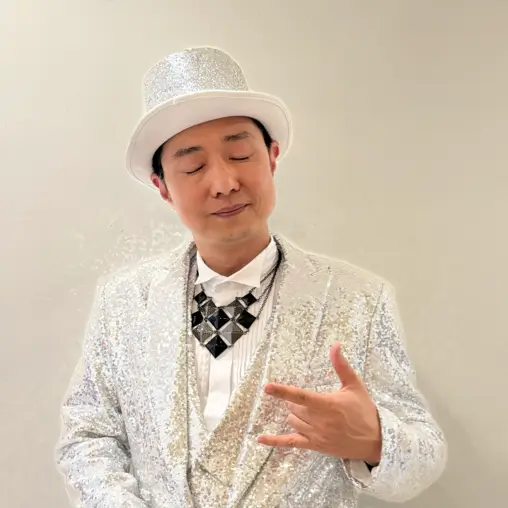
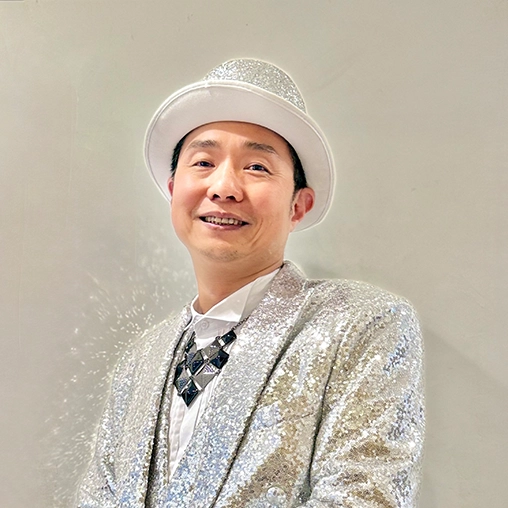
1008fix

diff --git a/src/html/news-detail1008.html b/src/html/news-detail1008.html
@@ -4,7 +4,7 @@
   <head>
     <meta charset="utf-8">
     <meta name="viewport" content="width=device-width, initial-scale=1">
-    <title>桃園萬聖城</title>
+    <title>桃園萬聖城 | 最新消息</title>
     <link rel="icon" href="images/favicon.webp" type="image/svg+xml">
     <link rel="stylesheet" href="css/index.css">
     
@@ -146,7 +146,7 @@
             </button>
           </div>
           <div class="col-6 mt-0">
-            <a class="btn-pill w-100" href="#">
+            <a class="btn-pill w-100" href="index-en.html">
               <img class="pumpkin" src="images/pumpkin.webp" alt="" aria-hidden="true">
               English
             </a>
@@ -154,7 +154,6 @@
         </div>
       </div>
     </div>
-
 
     <!-- 手機版光箱：Bootstrap Modal -->
     <div class="modal fade modal-menu" id="menuModal" tabindex="-1" aria-labelledby="menuModalLabel" aria-modal="true" role="dialog">
@@ -173,37 +172,37 @@
               </li>
 
               <li role="none">
-                <a role="menuitem" class="modal-link" href="#">
+                <a role="menuitem" class="modal-link" href="theme-activities.html">
                   <img class="pumpkin" src="images/pumpkin.webp" alt="主題活動" aria-hidden="true">主題活動
                 </a>
               </li>
 
               <li role="none">
-                <a role="menuitem" class="modal-link" href="#">
+                <a role="menuitem" class="modal-link" href="magic-stage.html">
                   <img class="pumpkin" src="images/pumpkin.webp" alt="魔幻舞台" aria-hidden="true">魔幻舞台
                 </a>
               </li>
 
               <li role="none">
-                <a role="menuitem" class="modal-link" href="#">
+                <a role="menuitem" class="modal-link" href="transport-info.html">
                   <img class="pumpkin" src="images/pumpkin.webp" alt="交通資訊" aria-hidden="true">交通資訊
                 </a>
               </li>
 
               <li role="none">
-                <a role="menuitem" class="modal-link" href="#">
+                <a role="menuitem" class="modal-link" href="partners.html">
                   <img class="pumpkin" src="images/pumpkin.webp" alt="萬聖城盟友" aria-hidden="true">萬聖城盟友
                 </a>
               </li>
 
               <li role="none">
-                <a role="menuitem" class="modal-link" href="#">
+                <a role="menuitem" class="modal-link" href="nearby-attractions.html">
                   <img class="pumpkin" src="images/pumpkin.webp" alt="順遊景點" aria-hidden="true">順遊景點
                 </a>
               </li>
 
               <li role="none">
-                <a role="menuitem" class="modal-link" href="#">
+                <a role="menuitem" class="modal-link" href="index-en.html">
                   <img class="pumpkin" src="images/pumpkin.webp" alt="English" aria-hidden="true">English
                 </a>
               </li>
@@ -215,142 +214,118 @@
 
     <!-- 主要內容 -->
     <main id="mainContent" class="wrap-1200 py-5">
-      <!-- 精彩預告 -->
-      <section class="video-area mb-4" aria-labelledby="videoTitle">
-        <div class="wrap-1200">
-          <!--<div class="video-box">-->
-            <!-- <h2 id="videoTitle" class="video-title">
-              <img src="images/icon01.webp" class="video-icon" alt="綠色火焰icon 黃色火焰icon" aria-hidden="true">
-              精彩預告
-            </h2> -->
-
-            <!-- <div class="text-white fs-1 text-center py-5">
-              2025桃園萬聖城・魔蛛古堡</br>
-              即將開城・敬請期待......
-            </div> -->
-
-            <!-- <div class="row g-4 video-list">
-              <div class="col-12 col-md-4">
-                <figure class="video-card m-0">
-                  <div class="ratio ratio-16x9">
-                    <iframe
-                      src="https://www.youtube.com/embed/k3Sjrq44bao?si=kxJZ0cavWau2a-AQ""
-                      title="精彩預告 1"
-                      loading="lazy"
-                      referrerpolicy="strict-origin-when-cross-origin"
-                      allow="accelerometer; autoplay; clipboard-write; encrypted-media; gyroscope; picture-in-picture; web-share"
-                      allowfullscreen></iframe>
-                  </div>
-                  <figcaption class="visually-hidden">精彩預告 1：活動花絮與重點介紹</figcaption>
-                </figure>
-              </div>
-
-              <div class="col-12 col-md-4">
-                <figure class="video-card m-0">
-                  <div class="ratio ratio-16x9">
-                    <iframe
-                      src="https://www.youtube.com/embed/k3Sjrq44bao?si=kxJZ0cavWau2a-AQ""
-                      title="精彩預告 2"
-                      loading="lazy"
-                      referrerpolicy="strict-origin-when-cross-origin"
-                      allow="accelerometer; autoplay; clipboard-write; encrypted-media; gyroscope; picture-in-picture; web-share"
-                      allowfullscreen></iframe>
-                  </div>
-                  <figcaption class="visually-hidden">精彩預告 2：主持人介紹與現場氛圍</figcaption>
-                </figure>
-              </div>
-
-              <div class="col-12 col-md-4">
-                <figure class="video-card m-0">
-                  <div class="ratio ratio-16x9">
-                    <iframe
-                      src="https://www.youtube.com/embed/k3Sjrq44bao?si=kxJZ0cavWau2a-AQ""
-                      title="精彩預告 3"
-                      loading="lazy"
-                      referrerpolicy="strict-origin-when-cross-origin"
-                      allow="accelerometer; autoplay; clipboard-write; encrypted-media; gyroscope; picture-in-picture; web-share"
-                      allowfullscreen></iframe>
-                  </div>
-                  <figcaption class="visually-hidden">精彩預告 3：活動亮點彙整</figcaption>
-                </figure>
-              </div>
-            </div> -->
-          <!--</div>-->
-
-          <!-- 最新消息 -->
-          <section class="news-area" aria-labelledby="newsTitle">
-            <div class="wrap-1200">
-              <div class="news-box">
-                <h2 id="newsTitle" class="news-head">
-                  <img src="images/icon01.webp" class="video-icon" alt="綠色火焰icon 黃色火焰icon" aria-hidden="true">
-                最新消息
-                </h2>
-
-                <a class="news-link" href="news-detail1008.html">
-                  <div class="row align-items-center g-0">
-                    <div class="col-8 col-md-auto mb-2 mb-md-0">
-                      <span class="news-date">2025年10月08日</span>
-                    </div>
-                    <div class="col-4 col-md-auto d-flex justify-content-md-end">
-                      <img class="news-hand" src="images/hand.webp" alt="" aria-hidden="true">
-                    </div>
-                    <div class="col-12 col-md">
-                      <span class="news-title">2025樂活桃園｜戀愛魔域・樂活桃緣</span>
-                    </div>
-                  </div>
-                </a>
-
-                <a class="news-link" href="news-detail1007.html">
-                  <div class="row align-items-center g-0">
-                    <div class="col-8 col-md-auto mb-2 mb-md-0">
-                      <span class="news-date">2025年10月07日</span>
-                    </div>
-                    <div class="col-4 col-md-auto d-flex justify-content-md-end">
-                      <img class="news-hand" src="images/hand.webp" alt="" aria-hidden="true">
-                    </div>
-                    <div class="col-12 col-md">
-                      <span class="news-title">主題特色市集，正式開始招商囉！</span>
-                    </div>
-                  </div>
-                </a>
-
-                <a class="news-link" href="news-detail1003.html">
-                  <div class="row align-items-center g-0">
-                    <div class="col-8 col-md-auto mb-2 mb-md-0">
-                      <span class="news-date">2025年10月03日</span>
-                    </div>
-                    <div class="col-4 col-md-auto d-flex justify-content-md-end">
-                      <img class="news-hand" src="images/hand.webp" alt="" aria-hidden="true">
-                    </div>
-                    <div class="col-12 col-md">
-                      <span class="news-title">搞鬼變裝競賽，活動報名開跑啦！</span>
-                    </div>
-                  </div>
-                </a>
-              </div>
-            </div>
-          </section>
-
+      <section class="ptitle-area" aria-labelledby="ptitle">
+        <div class="wrap-1200 px-3">
+          <div class="ptitle-box">
+            <h1 id="ptitle" class="ptitle-title">最新消息</h1>
+          </div>
         </div>
       </section>
+
+      <!-- 文章內容區 -->
+      <section class="post-area" aria-labelledby="postTitle">
+        <div class="wrap-1200">
+          <article class="post-box">
+
+            <!-- 標題 -->
+            <header class="post-header">
+              <h1 id="postTitle" class="post-title py-4">
+                <img src="images/icon02.webp" class="video-icon" alt="綠色火焰icon 黃色火焰icon" aria-hidden="true">
+                2025樂活桃園｜戀愛魔域・樂活桃緣
+              </h1>
+            </header>
+
+            <hr class="post-sep" aria-hidden="true">
+
+            <!-- 內文（可在其他頁共用 .post-body） -->
+            <div class="post-body" lang="zh-Hant">
+              <p>
+                單身的你(妳)準備好迎接命定的相遇了嗎？</br>
+                今年萬聖城特別推出浪漫又帶點神秘色彩的「戀愛魔域・樂活桃緣」，讓愛情在桃園街區悄悄萌芽！
+              </p>
+              <!-- 活動海報：置於第一段 <p> 後 -->
+              <figure class="m-0 my-4">
+                <img
+                  src="images/news/251008.webp"
+                  class="img-fluid w-100 d-block rounded-3"
+                  width="596" height="842"
+                  alt=""
+                  loading="lazy" decoding="async">
+                <figcaption class="visually-hidden">戀愛魔域・樂活桃緣海報</figcaption>
+              </figure>
+
+              <ul class="fs-5">
+                <li>
+                  <strong class="text-warning">活動日期：</strong>
+                  114年11月1日 (六) 13:00-18:30
+                </li>
+                <li>
+                  <strong class="text-warning">活動地點：</strong>
+                  桃園藝文廣場、風禾公園、77藝文町
+                </li>
+                <li>
+                  <strong class="text-warning">招募對象：</strong>
+                  25-45歲設籍或在桃園就學、工作之未婚單身男女
+                </li>
+                <li>
+                  <strong class="text-warning">招募名額：</strong>
+                  30對 (男女各30位，共60人)
+                </li>
+                <li>
+                  <strong class="text-warning">報名費用：</strong>
+                  我愛你脫單價 NT$520/人
+                </li>
+              </ul>
+
+
+              <h2 class="h4 fw-bold text-warning mt-4">活動特色</h2>
+              <ul class="fs-5">
+                <li>
+                  命運配對轉盤，讓緣分隨時降臨
+                </li>
+                <li>
+                  趣味互動任務，輕鬆打破初見的尷尬
+                </li>
+                <li>
+                  在日式風格藝文町內留下浪漫印記
+                </li>
+              </ul>
+
+              <address class="fs-5 mb-0">
+                報名時間即日起至10月21日止，額滿為止！<br>
+                成功報名並全程參加，還能獲得桃園萬聖城專屬精美禮品
+                <br>
+                別再錯過屬於你（妳）的緣分！馬上報名<br>
+                <a href="https://forms.gle/vtru1hiGLGK5qjH46" target="_blank">活動報名連結</a>
+                
+              </address>
+            </div>
+
+            <hr class="post-sep" aria-hidden="true">
+
+            <div class="text-center">
+              <a class="cta-btn" href="index.html">
+                <img class="cta-ico" src="images/bat-white.svg" alt="" aria-hidden="true">
+                返回最新消息
+              </a>
+            </div>
+
+          </article>
+        </div>
+      </section>
+
     </main>
     
     <!-- 下方主視覺 -->
     <div class="container-fluid p-0">
       <figure class="m-0">
         <img
-          src="images/down-image.webp"
+          src="images/down-image-page.webp"
           class="img-fluid w-100 d-block"
           width="1920" height="640"
-          alt="2025 桃園萬聖城主視覺：中央巨型南瓜，兩側拱橋與鬼怪裝飾。"
+          alt="裝飾用圖片"
           aria-describedby="downPosterInfo"
           loading="lazy" decoding="async">
-        <figcaption id="downPosterInfo" class="mt-2 visually-hidden">
-          <strong>2025 桃園萬聖城</strong>｜
-          <time datetime="2025-10-25">10/25</time>–<time datetime="2025-11-02">11/02</time>｜
-          平日 <time datetime="17:00">17:00</time>–<time datetime="21:00">21:00</time>｜
-          假日 <time datetime="12:00">12:00</time>–<time datetime="22:00">22:00</time>
-        </figcaption>
       </figure>
     </div>
 
